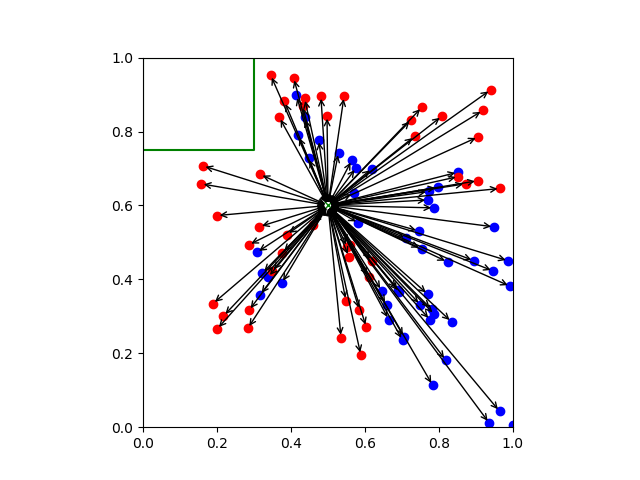
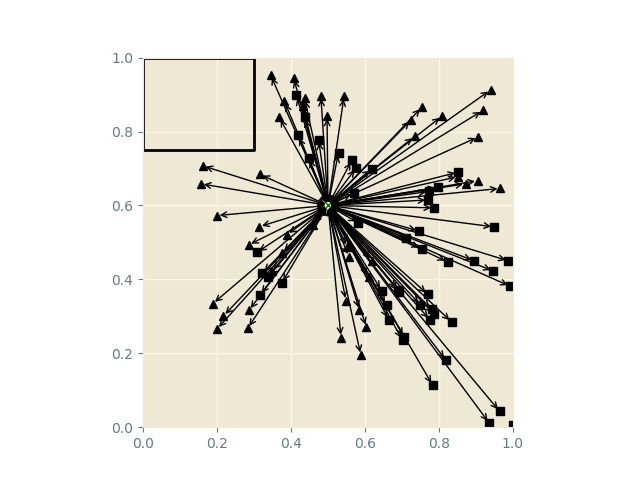
remove .DS_Store and update style of images

diff --git a/kNN.html b/kNN.html
@@ -76,9 +76,9 @@
                 to?
               </p>
 
-              <p align="center">
+              <div class="news-img-box">
                 <img width="600" height="400" src="src/kNN/img/fig2.png">
-              </p>
+              </div>
 
               <p>
                 Possibly the most obvious solution is to look at its nearest neighbour.
@@ -86,9 +86,9 @@
                 other points in our training set.
               </p>
 
-              <p align="center">
+              <div class="news-img-box">
                 <img width="600" height="400" src="src/kNN/img/fig3.png">
-              </p>
+              </div>
 
               <p>
                 A python gist containing the nearest neighbour classifier is given here:
@@ -102,17 +102,17 @@
                 The nearest neighbour to the green cross is a blue dot, and so we can classify the point as belonging to the blue class. In fact we can classify the whole space using this idea.
               </p>
 
-              <p align="center">
+              <div class="news-img-box">
                 <img width="600" height="400" src="src/kNN/img/fig4.png">
-              </p>
+              </div>
 
               <p>
                 The nearest neighbour classifier is sensitive to outliers, as can be seen in this green region:
               </p>
 
-              <p align="center">
+              <div class="news-img-box">
                 <img width="600" height="400" src="src/kNN/img/fig5.png">
-              </p>
+              </div>
 
               <p>
                 One way to overcome this sensitivity is by considering more neighbours. As you can probably guess by the name, what if we consider the nearest k neighbours? We take the mode of their class and if there is a draw then we choose the closest. A gist containing the KNN algorithm is here:
@@ -125,33 +125,33 @@
                 If we consider three neighbours then the regions are classified like this:
               </p>
 
-              <p align="center">
+              <div class="news-img-box">
                 <img width="600" height="400" src="src/kNN/img/fig6.png">
-              </p>
+              </div>
 
               <p>
                 A careful compromise is required as too many neighbours can make the boundries fuzzy:
               </p>
 
-              <p align="center">
+              <div class="news-img-box">
                 <img width="600" height="400" src="src/kNN/img/fig7.png">
-              </p>
+              </div>
 
               <p>
                 And clearly as the number of elements in our training set increases,
               </p>
 
-              <p align="center">
+              <div class="news-img-box">
                 <img width="600" height="400" src="src/kNN/img/fig8.png">
-              </p>
+              </div>
 
               <p>
                 then we have to compute all these distances
               </p>
 
-              <p align="center">
+              <div class="news-img-box">
                 <img width="600" height="400" src="src/kNN/img/fig10.png">
-              </p>
+              </div>
             </div>
           </div>
        </div>

diff --git a/src/kNN/kNN_classifier.py b/src/kNN/kNN_classifier.py
@@ -2,7 +2,7 @@ import numpy as np
 np.random.seed(0)
 import matplotlib.pyplot as plt
 from scipy import stats
-plt.style.use('fast')
+plt.style.use('Solarize_Light2')
 
 #############
 # Initial
@@ -14,11 +14,11 @@ label = [0, 0, 0, 0, 0, 0, 0, 0, 0, 0, 1, 1, 1, 1, 1, 1, 1, 1, 1, 1]
 fig, axes = plt.subplots(ncols=1, nrows=1)
 for i, val in enumerate(label):
     if val == 1:
-        axes.plot(x_coord[i], y_coord[i], 'ro')
+        axes.plot(x_coord[i], y_coord[i], 'k^')
     else:
-        axes.plot(x_coord[i], y_coord[i], 'bo')
+        axes.plot(x_coord[i], y_coord[i], 'ks')
 axes.set(xlim=(0, 1), ylim=(0, 1), aspect=1)
-axes.plot(0.5, 0.6, 'gx')
+axes.plot(0.5, 0.6, 'kx')
 plt.savefig('img/fig2')
 
 
@@ -53,17 +53,17 @@ for i, x in enumerate(np.linspace(0, 1, 1000)):
 
 for i, val in enumerate(label):
     if val == 1:
-        axes.plot(x_coord[i], y_coord[i], 'ro')
+        axes.plot(x_coord[i], y_coord[i], 'k^')
     else:
-        axes.plot(x_coord[i], y_coord[i], 'bo')
+        axes.plot(x_coord[i], y_coord[i], 'ks')
 
-axes.imshow(D, extent = [0, 1, 0, 1], cmap=plt.get_cmap('Pastel1'), aspect = 1)
+axes.imshow(D, extent = [0, 1, 0, 1], alpha=0.8, cmap=plt.get_cmap('cividis'), aspect = 1)
 plt.savefig('img/fig4')
 
 #############
 # Figure 5
 #############
-axes.plot([0.2, 0.4, 0.4, 0.2, 0.2], [0.3, 0.3, 0.5, 0.5, 0.3], 'g')
+axes.plot([0.2, 0.4, 0.4, 0.2, 0.2], [0.3, 0.3, 0.5, 0.5, 0.3], 'k')
 plt.savefig('img/fig5')
 
 #############
@@ -97,10 +97,10 @@ for i, x in enumerate(np.linspace(0, 1, 1000)):
 
 for i, val in enumerate(label):
     if val == 1:
-        axes.plot(x_coord[i], y_coord[i], 'ro')
+        axes.plot(x_coord[i], y_coord[i], 'k^')
     else:
-        axes.plot(x_coord[i], y_coord[i], 'bo')
-axes.imshow(D, extent = [0, 1, 0, 1], cmap=plt.get_cmap('Pastel1'), aspect = 1)
+        axes.plot(x_coord[i], y_coord[i], 'ks')
+axes.imshow(D, extent = [0, 1, 0, 1], alpha=0.8, cmap=plt.get_cmap('cividis'), aspect = 1)
 plt.savefig('img/fig6')
 
 #############
@@ -134,10 +134,10 @@ for i, x in enumerate(np.linspace(0, 1, 1000)):
 
 for i, val in enumerate(label):
     if val == 1:
-        axes.plot(x_coord[i], y_coord[i], 'ro')
+        axes.plot(x_coord[i], y_coord[i], 'k^')
     else:
-        axes.plot(x_coord[i], y_coord[i], 'bo')
-axes.imshow(D, extent = [0, 1, 0, 1], cmap=plt.get_cmap('Pastel1'), aspect = 1)
+        axes.plot(x_coord[i], y_coord[i], 'ks')
+axes.imshow(D, extent = [0, 1, 0, 1], alpha=0.8, cmap=plt.get_cmap('cividis'), aspect = 1)
 plt.savefig('img/fig7')
 
 #############
@@ -155,10 +155,10 @@ for i, val in enumerate(label):
         y = y_coord[i]+0.05*np.random.randn(1)
         if val == 1:
             class_1.append([x, y])
-            axes.plot(x, y, 'ro')
+            axes.plot(x, y, 'k^')
         else:
             class_2.append([x, y])
-            axes.plot(x, y, 'bo')
+            axes.plot(x, y, 'ks')
 axes.set(xlim=(0, 1), ylim=(0, 1), aspect=1)
 plt.savefig('img/fig8')
 
@@ -179,5 +179,5 @@ plt.savefig('img/fig10')
 #############
 # Figure 11
 #############
-axes.plot([0, 0.3, 0.3, 0, 0], [0.75, 0.75, 1, 1, 0.75], 'g')
+axes.plot([0, 0.3, 0.3, 0, 0], [0.75, 0.75, 1, 1, 0.75], 'k')
 plt.savefig('img/fig11')
